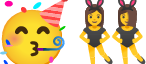
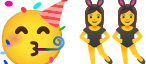
Fix transform order

Changed region(s): [[0.8493, 0.1562, 0.9315, 0.4062], [0.5753, 0.1562, 0.6301, 0.25], [0.7945, 0.375, 0.8219, 0.4062]]

diff --git a/src/pens.rs b/src/pens.rs
@@ -236,7 +236,7 @@ impl<'a> ColorPainter for GlyphPainter<'a> {
             transform.dy as f64,
         ]);
         let new_transform = match builder.transforms.last().copied() {
-            Some(prev_transform) => transform * prev_transform,
+            Some(prev_transform) => prev_transform * transform,
             None => transform,
         };
         builder.transforms.push(new_transform);
